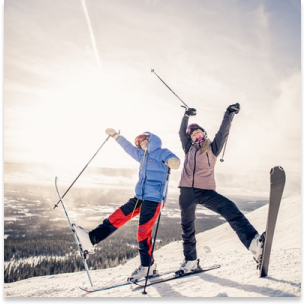
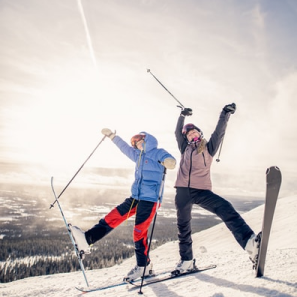
Заменены изображения из figma для секции promo (удалена подложка)

Changed region(s): [[0.0, 0.0, 1.0, 1.0], [0.0, 0.0, 0.0303, 0.3636], [0.303, 0.4848, 0.3333, 0.5152]]

diff --git a/styles/style.css b/styles/style.css
@@ -9,7 +9,7 @@
          url('../fonts/montserrat-v24-latin_cyrillic-regular.woff') format('woff'); /* Chrome 6+, Firefox 3.6+, IE 9+, Safari 5.1+ */
   }
 
-  @font-face {
+@font-face {
     font-family: 'Montserrat';
     font-style: normal;
     font-weight: 500;
@@ -60,21 +60,21 @@ body {
     width: 276px;
     height: 45px;
     margin: 0;
-    padding: 7px 39px; /* значения 8 и 41 из макета не центрируют текст */
+    padding: 8px 39px; /* значения 8 и 41 из макета не центрируют текст */
+    color: #060D10;
     font-weight: 500;
     font-size: 24px;
     line-height: 29px;
     text-decoration: none;
     text-align: center;
-    background: #FFFFFF;
+    background-color: #FFFFFF;
     border: 2px solid #FFFFFF;
     border-radius: 4px;
-    color: #060D10;
 }
 
 .logo {
-    width: 295.5px;
-    height: 50.76px;
+    width: 296px;
+    height: 51px;
     margin: 0;
     background-size: contain;
     background-repeat: no-repeat;
